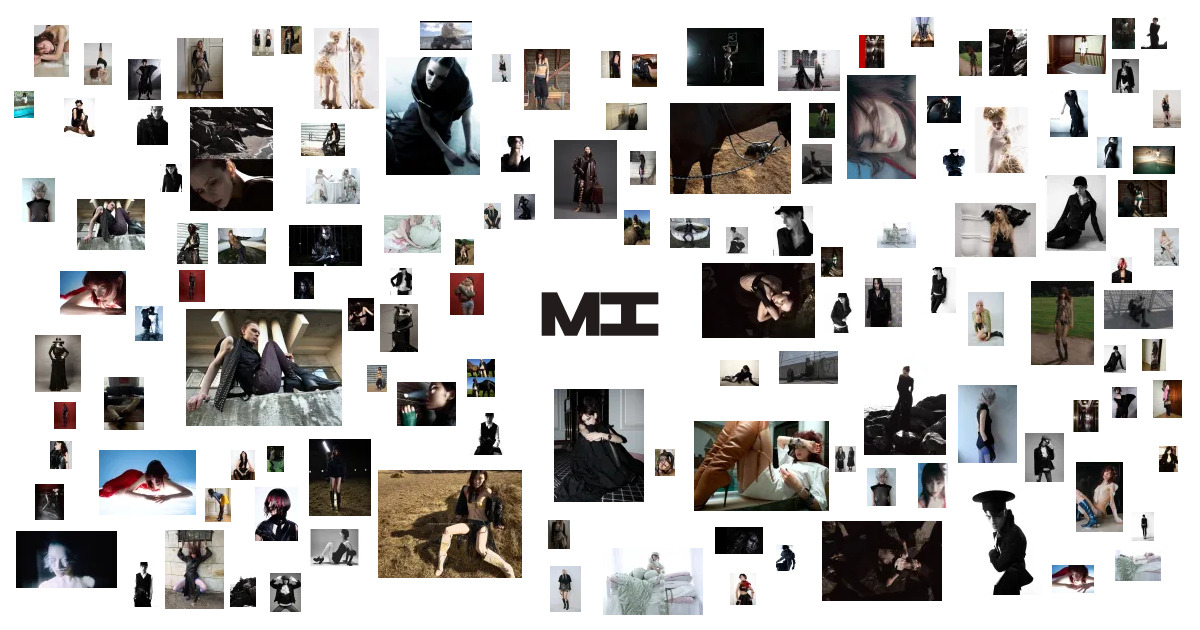
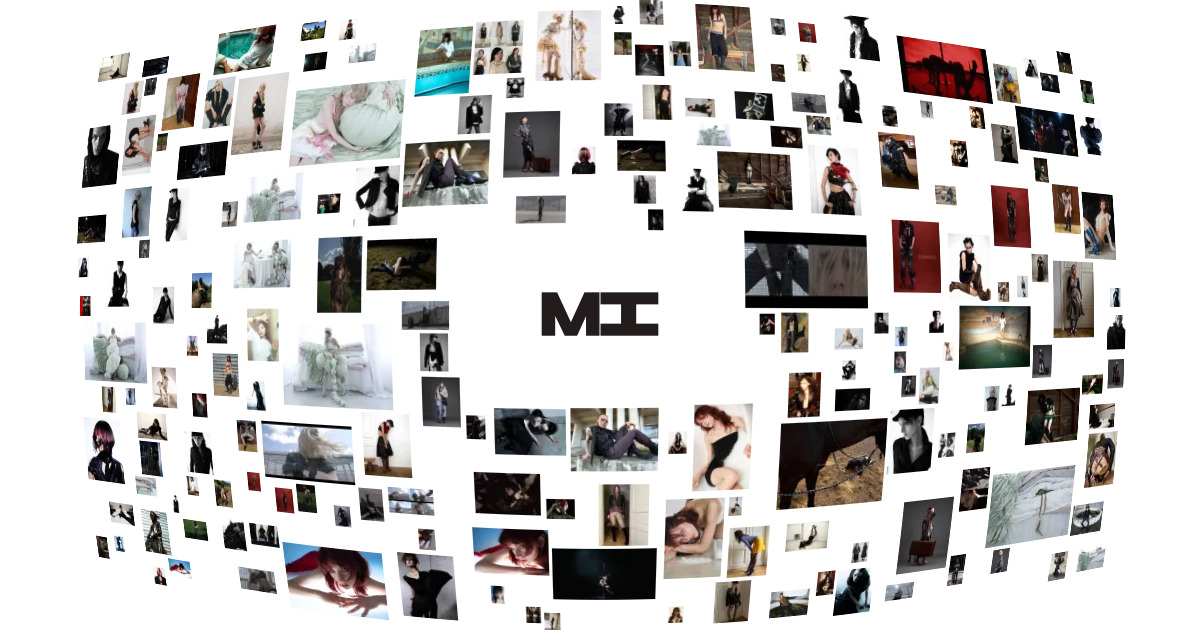
Link preview: the micro photo scatter through a lens (variant 08), mark kept straight on top
Claude-Session: https://claude.ai/code/session_014xaxtEuJakJSLk9BpFVaFM

diff --git a/docs/index.html b/docs/index.html
@@ -10,14 +10,14 @@
 <meta property="og:type" content="website">
 <meta property="og:title" content="stylist · art direction · model">
 <meta property="og:description" content="stylist · art direction · model">
-<meta property="og:image" content="https://milaharys.com/og.jpg?v=3b534dae">
+<meta property="og:image" content="https://milaharys.com/og.jpg?v=93908195">
 <meta property="og:image:width" content="1200">
 <meta property="og:image:height" content="630">
 <meta property="og:url" content="https://milaharys.com/">
 <meta name="twitter:card" content="summary_large_image">
 <meta name="twitter:title" content="stylist · art direction · model">
 <meta name="twitter:description" content="stylist · art direction · model">
-<meta name="twitter:image" content="https://milaharys.com/og.jpg?v=3b534dae">
+<meta name="twitter:image" content="https://milaharys.com/og.jpg?v=93908195">
 <!-- meta:end -->
 <link rel="icon" href="favicon.ico?v=b0d5beaa" sizes="any">
 <link rel="icon" href="favicon.png?v=50191b2a" type="image/png">
